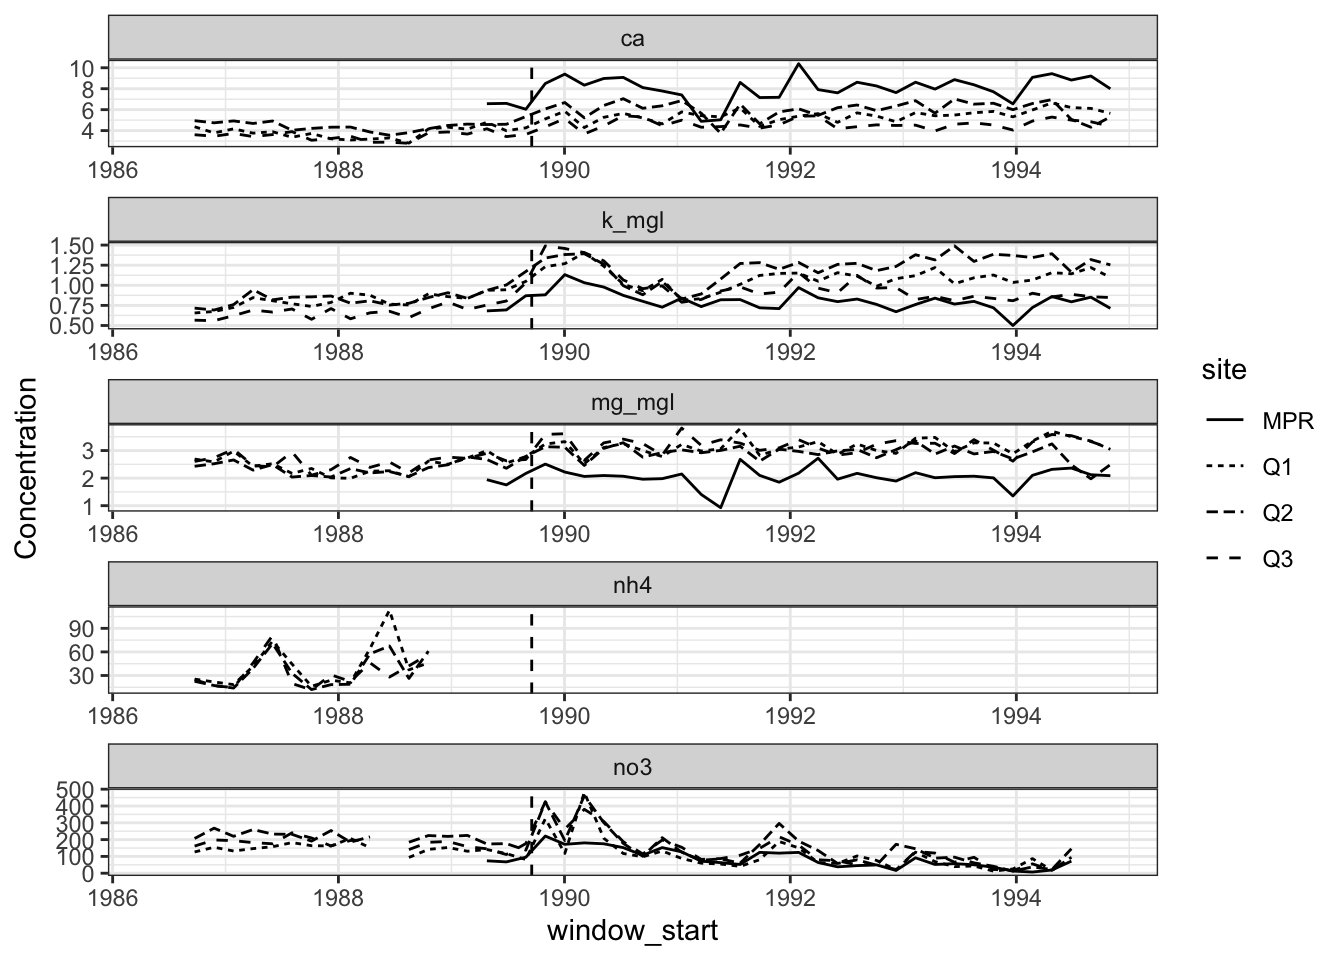
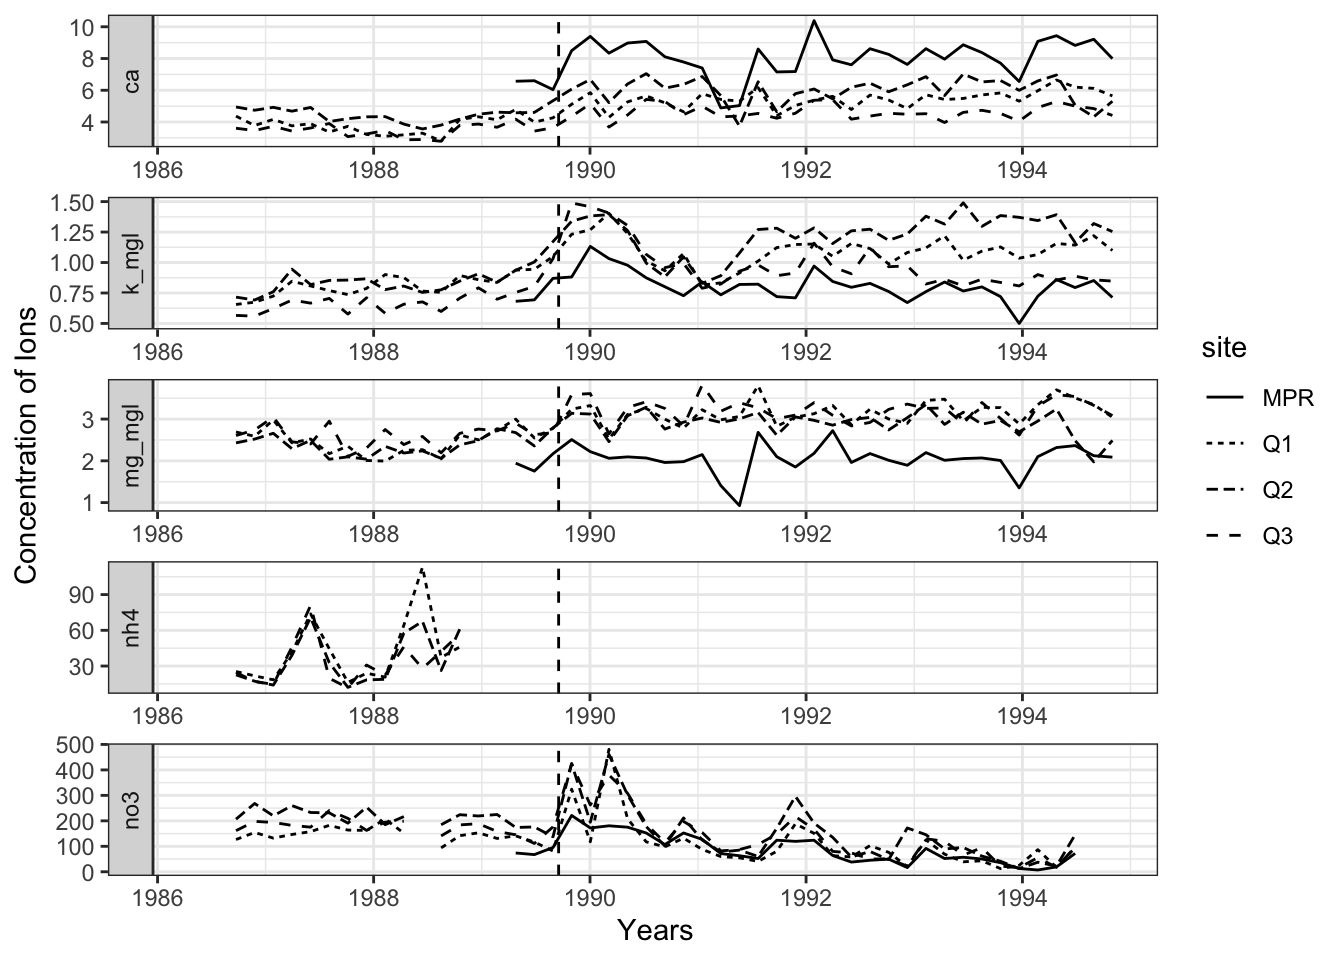
beautiful graph

Changed region(s): [[0.0, 0.0, 0.875, 1.0], [0.9062, 0.3438, 1.0, 0.5938]]

diff --git a/docs/paper.html b/docs/paper.html
@@ -127,11 +127,12 @@ pre > code.sourceCode > span > a:first-child::before { text-decoration: underlin
 <span id="cb3-3"><a href="#cb3-3" aria-hidden="true" tabindex="-1"></a>    <span class="fu">aes</span>(<span class="at">x =</span> window_start, <span class="at">y =</span> Concentration, <span class="at">linetype =</span> site)</span>
 <span id="cb3-4"><a href="#cb3-4" aria-hidden="true" tabindex="-1"></a>  ) <span class="sc">+</span></span>
 <span id="cb3-5"><a href="#cb3-5" aria-hidden="true" tabindex="-1"></a>  <span class="fu">geom_line</span>() <span class="sc">+</span></span>
-<span id="cb3-6"><a href="#cb3-6" aria-hidden="true" tabindex="-1"></a>  <span class="fu">facet_wrap</span>(<span class="fu">vars</span>(Ion), <span class="at">scales =</span> <span class="st">'free'</span>, <span class="at">ncol =</span> <span class="dv">1</span>) <span class="sc">+</span></span>
+<span id="cb3-6"><a href="#cb3-6" aria-hidden="true" tabindex="-1"></a>  <span class="fu">facet_wrap</span>(<span class="fu">vars</span>(Ion), <span class="at">scales =</span> <span class="st">'free'</span>, <span class="at">ncol =</span> <span class="dv">1</span>, <span class="at">strip.position =</span> <span class="st">"left"</span>) <span class="sc">+</span></span>
 <span id="cb3-7"><a href="#cb3-7" aria-hidden="true" tabindex="-1"></a>  <span class="fu">geom_vline</span>(<span class="at">xintercept =</span> <span class="fu">ymd</span>(<span class="st">'1989-09-17'</span>), <span class="at">linetype =</span> <span class="st">'dashed'</span>) <span class="sc">+</span></span>
-<span id="cb3-8"><a href="#cb3-8" aria-hidden="true" tabindex="-1"></a>  <span class="fu">theme_bw</span>()</span>
-<span id="cb3-9"><a href="#cb3-9" aria-hidden="true" tabindex="-1"></a></span>
-<span id="cb3-10"><a href="#cb3-10" aria-hidden="true" tabindex="-1"></a>plot1</span></code></pre></div><button title="Copy to Clipboard" class="code-copy-button"><i class="bi"></i></button></div>
+<span id="cb3-8"><a href="#cb3-8" aria-hidden="true" tabindex="-1"></a>  <span class="fu">labs</span>(<span class="at">x =</span> <span class="st">'Years'</span>, <span class="at">y =</span> <span class="st">'Concentration of Ions'</span>) <span class="sc">+</span></span>
+<span id="cb3-9"><a href="#cb3-9" aria-hidden="true" tabindex="-1"></a>  <span class="fu">theme_bw</span>()</span>
+<span id="cb3-10"><a href="#cb3-10" aria-hidden="true" tabindex="-1"></a></span>
+<span id="cb3-11"><a href="#cb3-11" aria-hidden="true" tabindex="-1"></a>plot1</span></code></pre></div><button title="Copy to Clipboard" class="code-copy-button"><i class="bi"></i></button></div>
 <div class="cell-output-display">
 <div>
 <figure class="figure">
